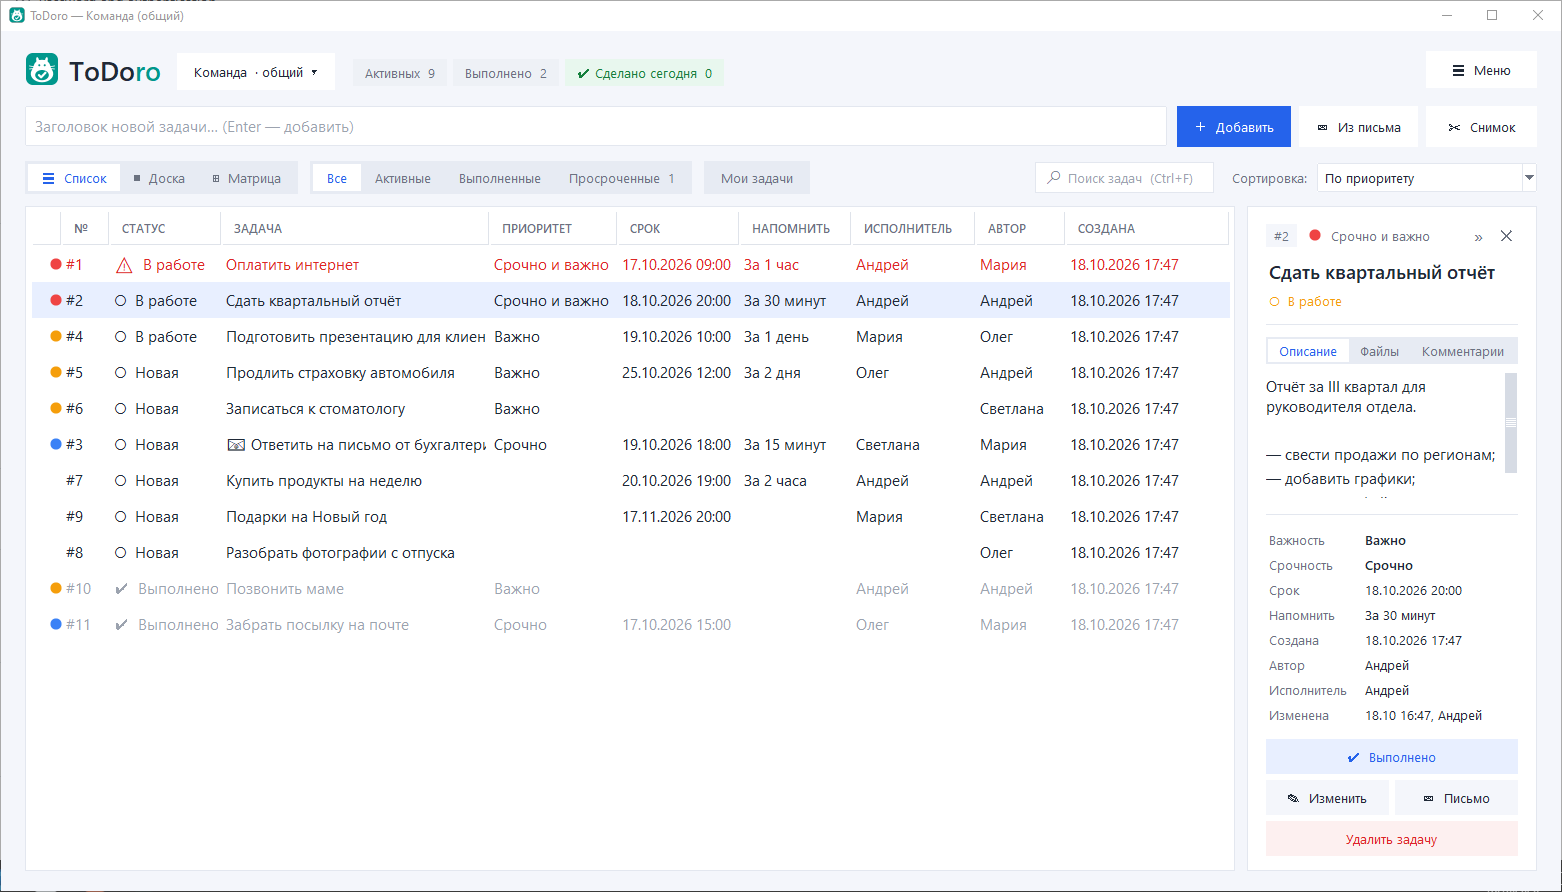
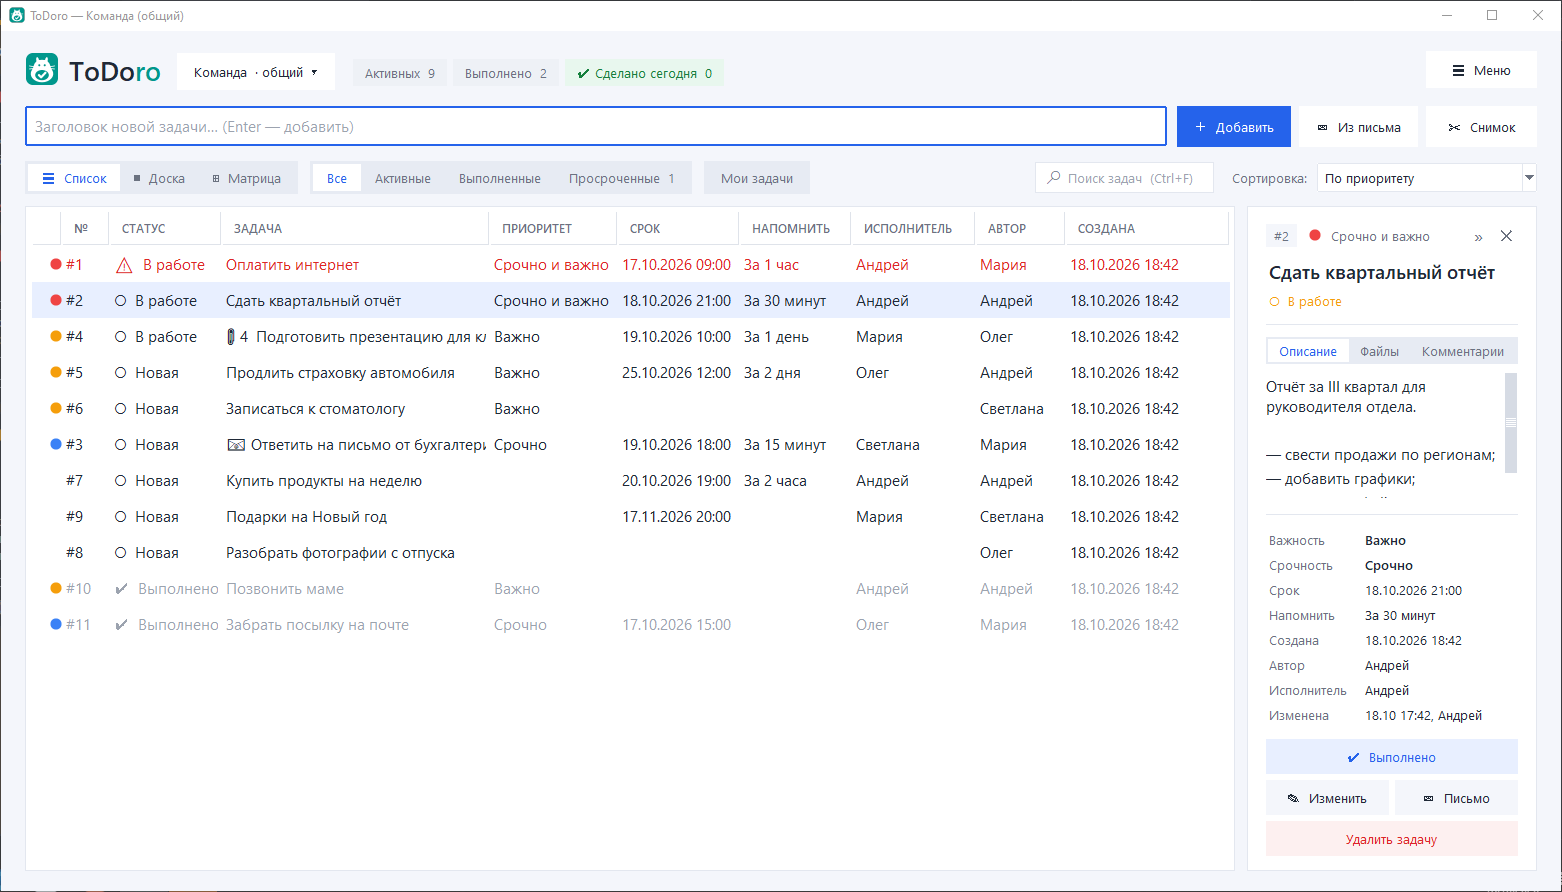
Список задач: скрепка с числом файлов — в начале строки, перед названием, чтобы не пряталась при обрезке длинного названия; тесты

Changed region(s): [[0.1229, 0.3632, 0.3073, 0.3935], [0.0922, 0.9989, 0.1536, 1.0]]

diff --git a/tests/test_list_title.py b/tests/test_list_title.py
@@ -1,0 +1,86 @@
+"""Заголовок задачи в списке (TodoApp.list_title): 📧 и 📎 с числом файлов — в начале строки,
+💬 с числом комментариев — в конце. И значки для доски/матрицы (extras_mark) — прежние.
+Окна не открываются: метод вызывается на подставном объекте."""
+
+import sys
+import unittest
+from pathlib import Path
+from types import SimpleNamespace
+
+sys.path.insert(0, str(Path(__file__).resolve().parent.parent))
+
+import todoro  # noqa: E402
+
+
+def title(task_id, text, counts=None, mail=()):
+    fake = SimpleNamespace(extra_counts=counts or {}, mail_ids=set(mail))
+    return todoro.TodoApp.list_title(fake, task_id, text)
+
+
+class ListTitleTests(unittest.TestCase):
+    def test_plain(self):
+        self.assertEqual(title(1, "Купить хлеб"), "Купить хлеб")
+
+    def test_zero_counts_plain(self):
+        """Запись (0, 0) в extra_counts — как будто её нет."""
+        self.assertEqual(title(1, "Купить хлеб", {1: (0, 0)}), "Купить хлеб")
+
+    def test_none_counts_plain(self):
+        self.assertEqual(title(1, "Купить хлеб", {1: None}), "Купить хлеб")
+
+    def test_files_only_in_front(self):
+        self.assertEqual(title(1, "Отчёт", {1: (2, 0)}), "📎 2  Отчёт")
+
+    def test_comments_only_at_end(self):
+        self.assertEqual(title(1, "Отчёт", {1: (0, 1)}), "Отчёт   💬 1")
+
+    def test_mail_files_comments(self):
+        self.assertEqual(title(7, "Ответить", {7: (3, 1)}, mail={7}), "📧 📎 3  Ответить   💬 1")
+
+    def test_mail_only(self):
+        self.assertEqual(title(7, "Ответить", mail={7}), "📧 Ответить")
+
+    def test_mail_and_comments(self):
+        self.assertEqual(title(7, "Ответить", {7: (0, 4)}, mail={7}), "📧 Ответить   💬 4")
+
+    def test_files_and_comments(self):
+        self.assertEqual(title(5, "Х", {5: (1, 2)}), "📎 1  Х   💬 2")
+
+    def test_other_task_counts_ignored(self):
+        """Значки другой задачи (и её письмо) не попадают в заголовок."""
+        self.assertEqual(title(1, "Моя", {2: (5, 5)}, mail={2}), "Моя")
+
+    def test_big_numbers(self):
+        self.assertEqual(title(1, "Т", {1: (1234, 99999)}), "📎 1234  Т   💬 99999")
+
+    def test_empty_title(self):
+        self.assertEqual(title(1, "", {1: (2, 1)}, mail={1}), "📧 📎 2     💬 1")
+
+    def test_files_not_repeated_at_end(self):
+        """Скрепка — только в начале, в конце строки её больше нет."""
+        text = title(1, "Отчёт", {1: (2, 3)}, mail={1})
+        self.assertEqual(text.count("📎"), 1)
+        self.assertEqual(text.count("📧"), 1)
+        self.assertTrue(text.startswith("📧 📎 2  "))
+        self.assertTrue(text.endswith("   💬 3"))
+
+
+class ExtrasMarkTests(unittest.TestCase):
+    """extras_mark (доска и матрица) не менялась."""
+
+    def test_all(self):
+        self.assertEqual(todoro.extras_mark((2, 3), True), "   📧  📎 2  💬 3")
+
+    def test_nothing(self):
+        self.assertEqual(todoro.extras_mark(None), "")
+        self.assertEqual(todoro.extras_mark((0, 0), False), "")
+
+    def test_parts(self):
+        self.assertEqual(todoro.extras_mark((2, 0)), "   📎 2")
+        self.assertEqual(todoro.extras_mark((0, 3)), "   💬 3")
+        self.assertEqual(todoro.extras_mark(None, True), "   📧")
+        self.assertEqual(todoro.extras_mark((0, 1), True), "   📧  💬 1")
+
+
+if __name__ == "__main__":
+    unittest.main()

diff --git a/todoro.py b/todoro.py
@@ -6856,10 +6856,11 @@ class TodoApp:
         return extras_mark(self.extra_counts.get(task_id), task_id in self.mail_ids)
 
     def list_title(self, task_id, title):
-        """Заголовок в списке: 📧 — впереди (столбец узкий, конец строки может не поместиться),
-        📎 и 💬 — после заголовка."""
-        prefix = MAIL_MARK + " " if task_id in self.mail_ids else ""
-        return prefix + title + extras_mark(self.extra_counts.get(task_id))
+        """Заголовок в списке: 📧 и 📎 с числом файлов — впереди (столбец узкий, конец строки
+        может не поместиться), 💬 — после заголовка."""
+        files, comments = self.extra_counts.get(task_id) or (0, 0)
+        prefix = (MAIL_MARK + " " if task_id in self.mail_ids else "") + (f"📎 {files}  " if files else "")
+        return prefix + title + extras_mark((0, comments))
 
     def attachments(self, task_id):
         try:

diff --git a/RELEASE_NOTES.md b/RELEASE_NOTES.md
@@ -6,6 +6,7 @@
 ## Не выпущено
 
 - Файлы задачи показываются с такими же значками, как в Проводнике Windows (Word, Excel, PDF…), а не с серой плашкой с расширением.
+- В списке задач скрепка с числом файлов стоит теперь в начале строки, перед названием задачи, и не пропадает, когда длинное название не помещается в столбец.
 
 ## 2.18 — 18.10.2026
 
